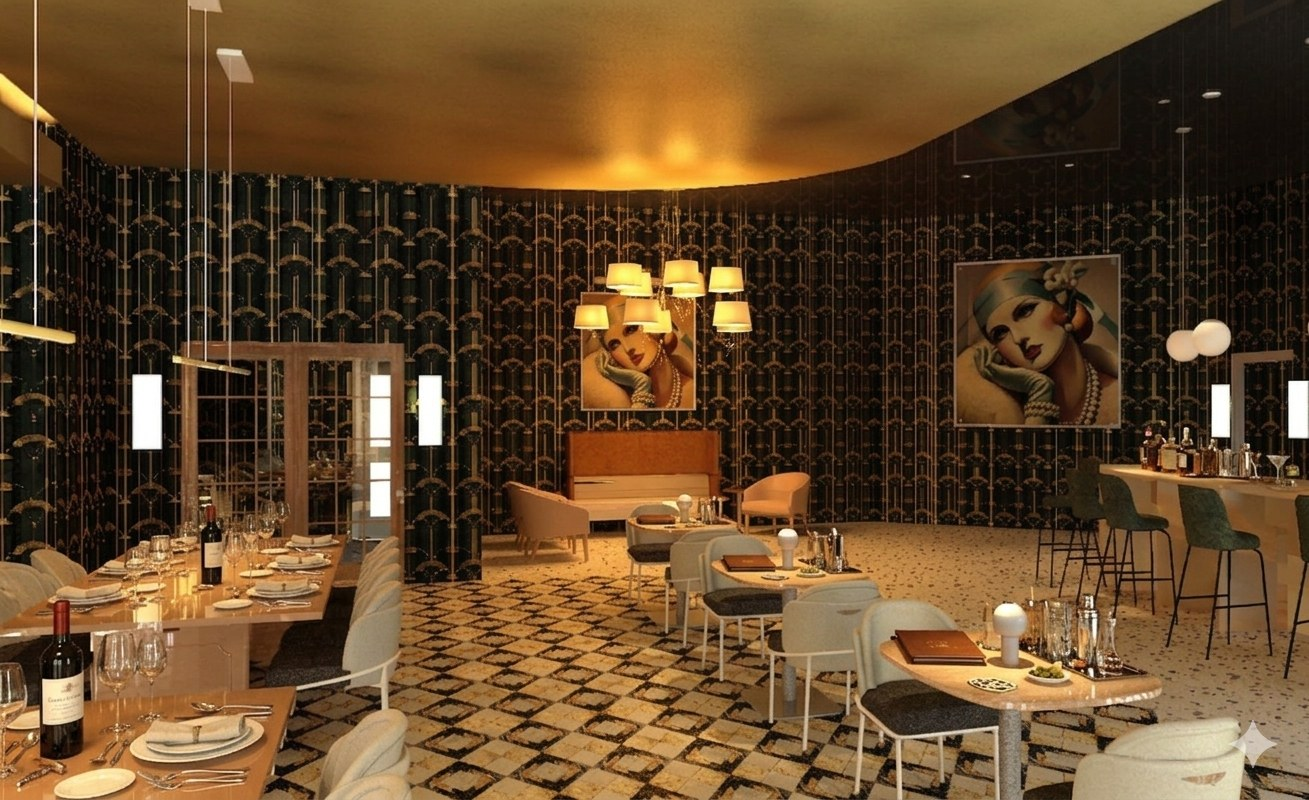
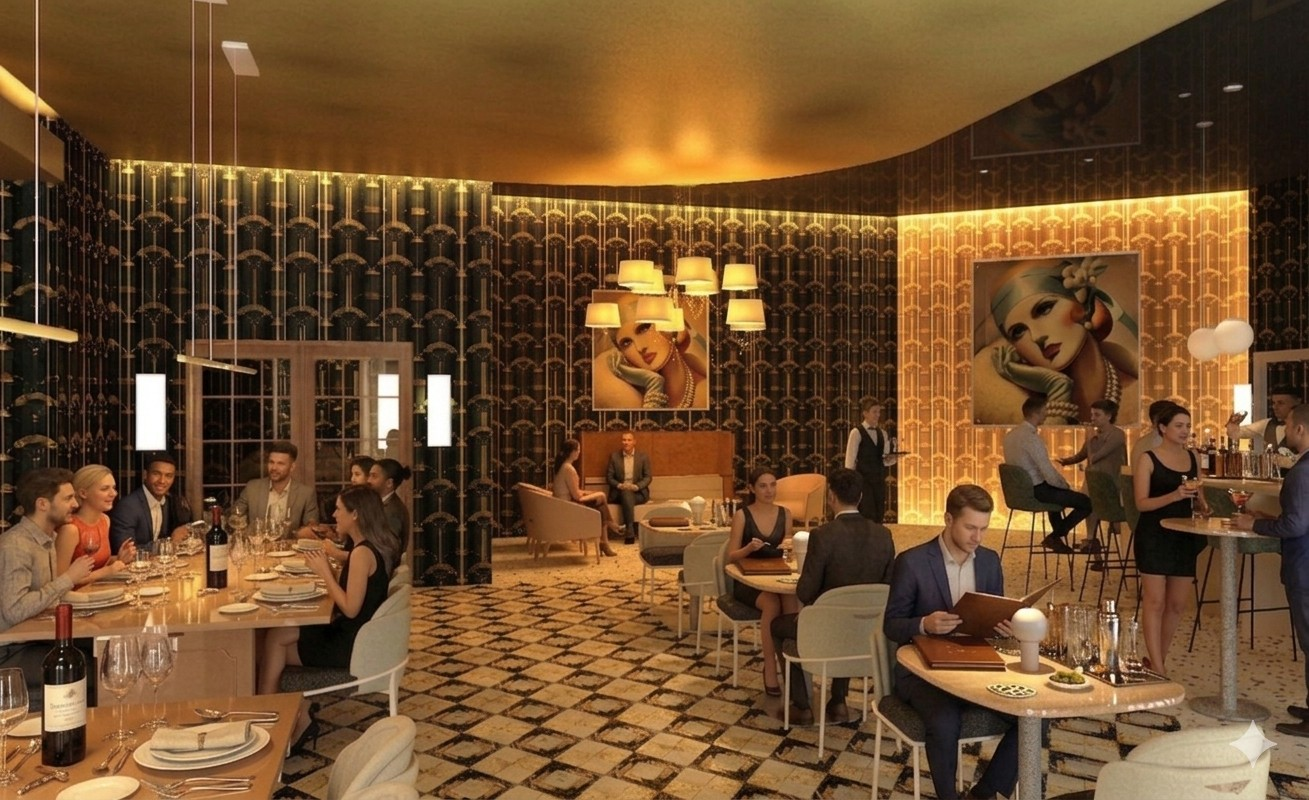
The Velvet Hour: replace the dining room visualization with the version with people
Claude-Session: https://claude.ai/code/session_01TyPsZ4kRQc6u5qMH3MX8Kb

diff --git a/src/content/concepts/the-velvet-hour/index.md b/src/content/concepts/the-velvet-hour/index.md
@@ -4,7 +4,7 @@
 title: The Velvet Hour
 location: Berkeley, CA
 cover: ./02.jpg
-coverAlt: Concept visualization of a dining room with a long set table, a bar with olive green stools, dark gold Art Deco patterned wallpaper, a checkered floor, and two large portrait paintings of women in 1920s dress
+coverAlt: Concept visualization of a dining room full of guests, with a long set table, a bar with olive green stools, glowing dark gold Art Deco patterned wallpaper, a checkered floor, and two large portrait paintings of women in 1920s dress
 coverCaption: AI-generated visualization
 images:
   - src: ./03.jpg
